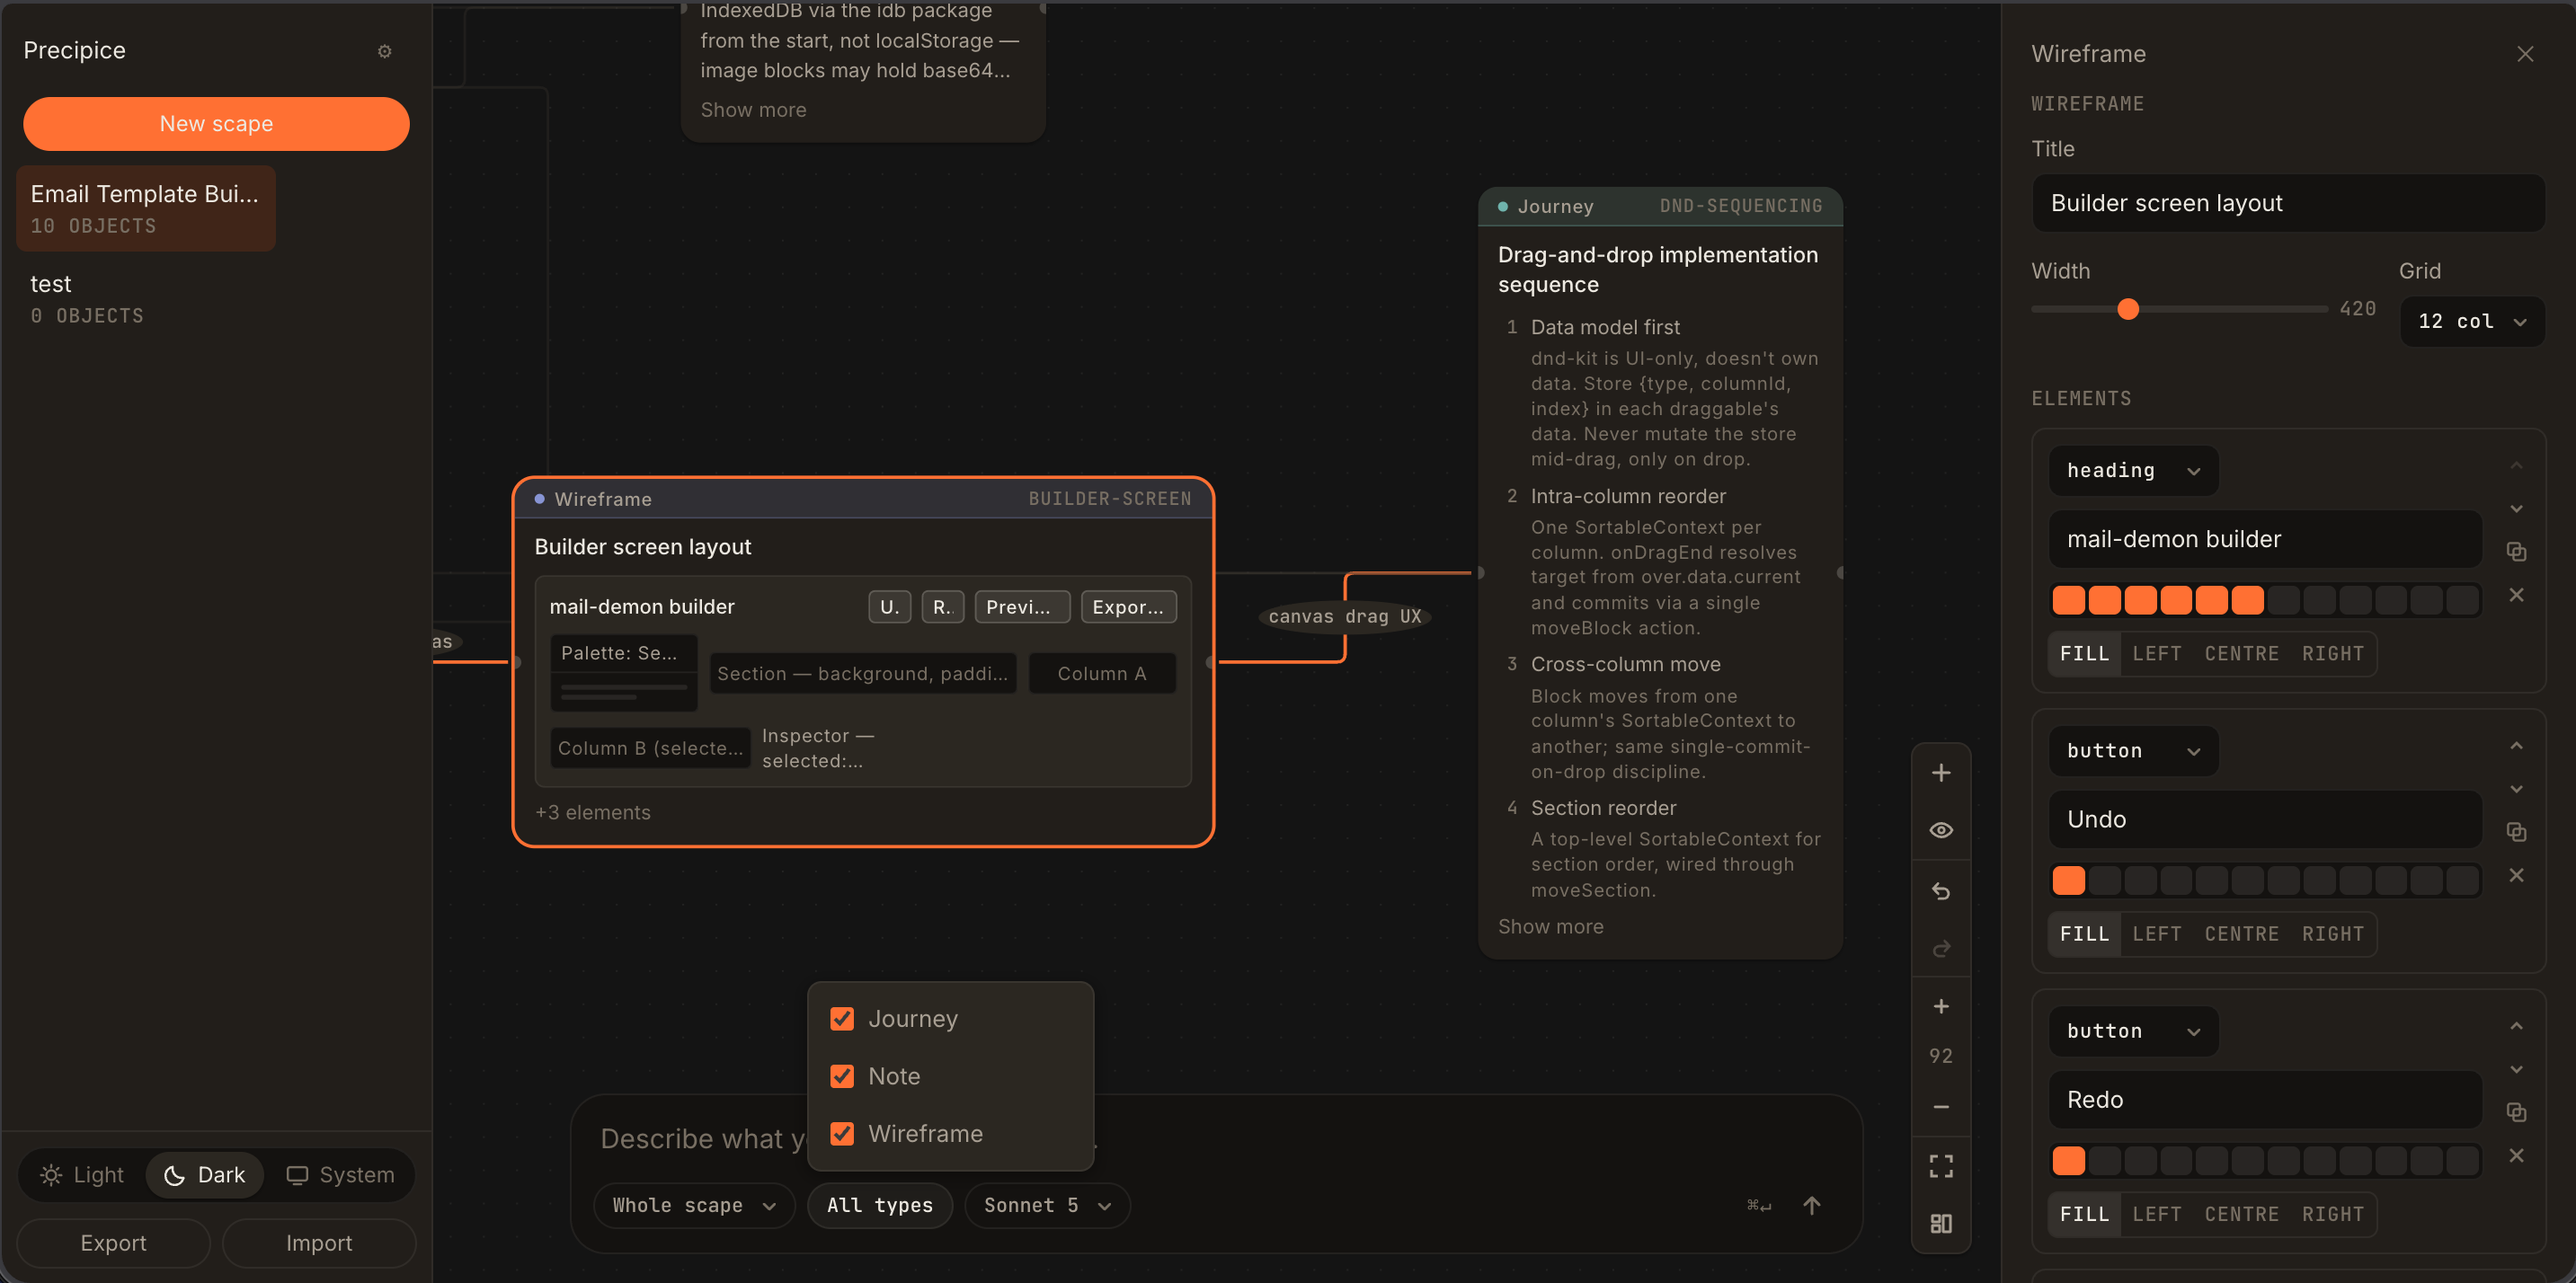
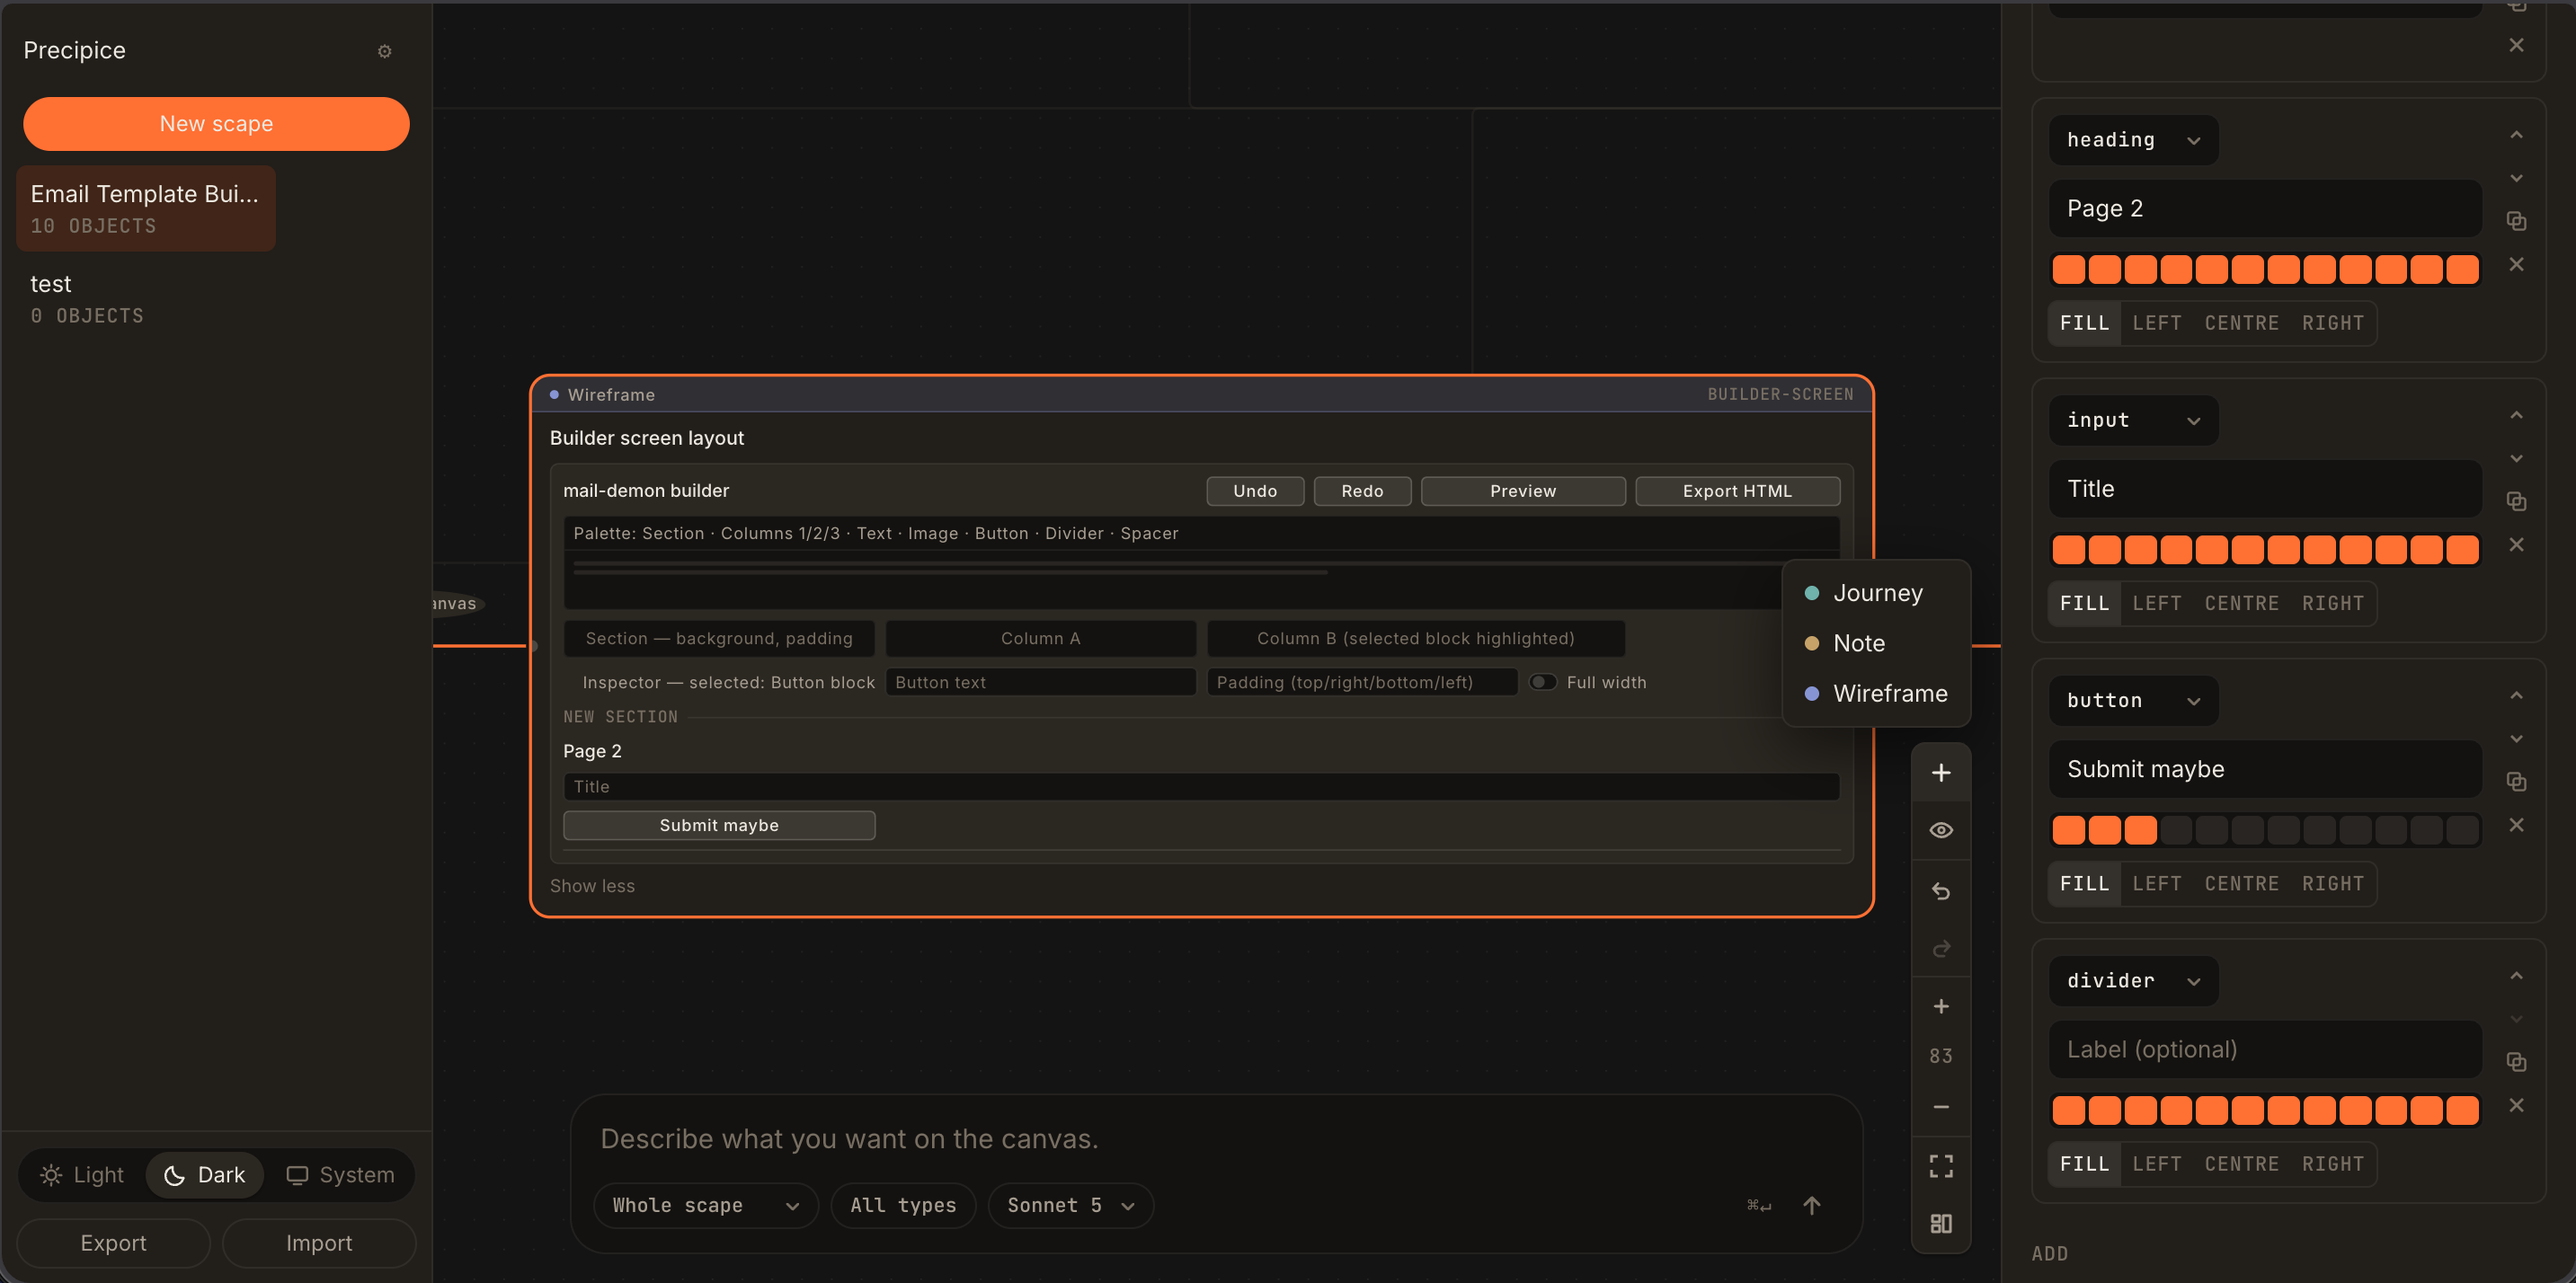
docs: replace cramped wireframe screenshots

diff --git a/CHANGELOG.md b/CHANGELOG.md
@@ -18,6 +18,8 @@ milestone is published.
 - Added editable Wireframe and Journey inspector experiences.
 - Added Cloudflare Pages and Worker deployment configuration.
 - Added the current workspace screenshots and refreshed the public README.
+- Replaced cramped wireframe canvas screenshots with expanded light and dark views,
+  plus clearer filter, model-selector, and relationship-line control views.
 - Added the MIT license, security guidance, and non-developer setup instructions.
 
 ### Security

diff --git a/README.md b/README.md
@@ -70,6 +70,8 @@ Filters and line controls keep larger scapes readable.
 
 ![Object type filter](docs/screenshots/type-filter-dark.png)
 
+![Model selector](docs/screenshots/model-selector-dark.png)
+
 ![Relationship line filter](docs/screenshots/line-filter-dark.png)
 
 ### Development surfaces
